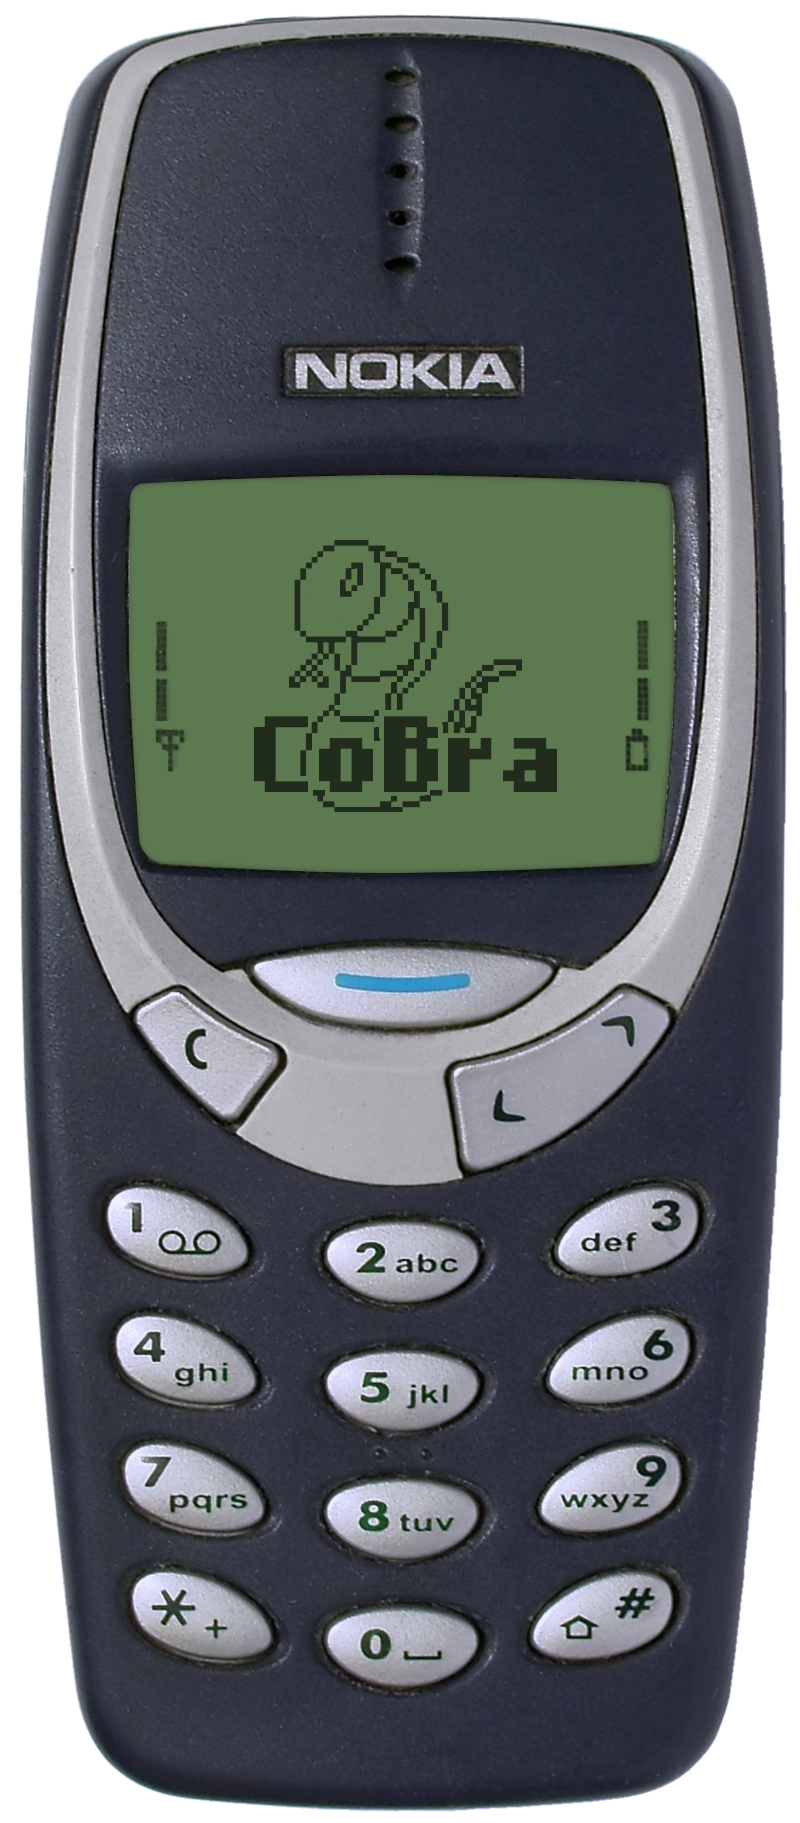
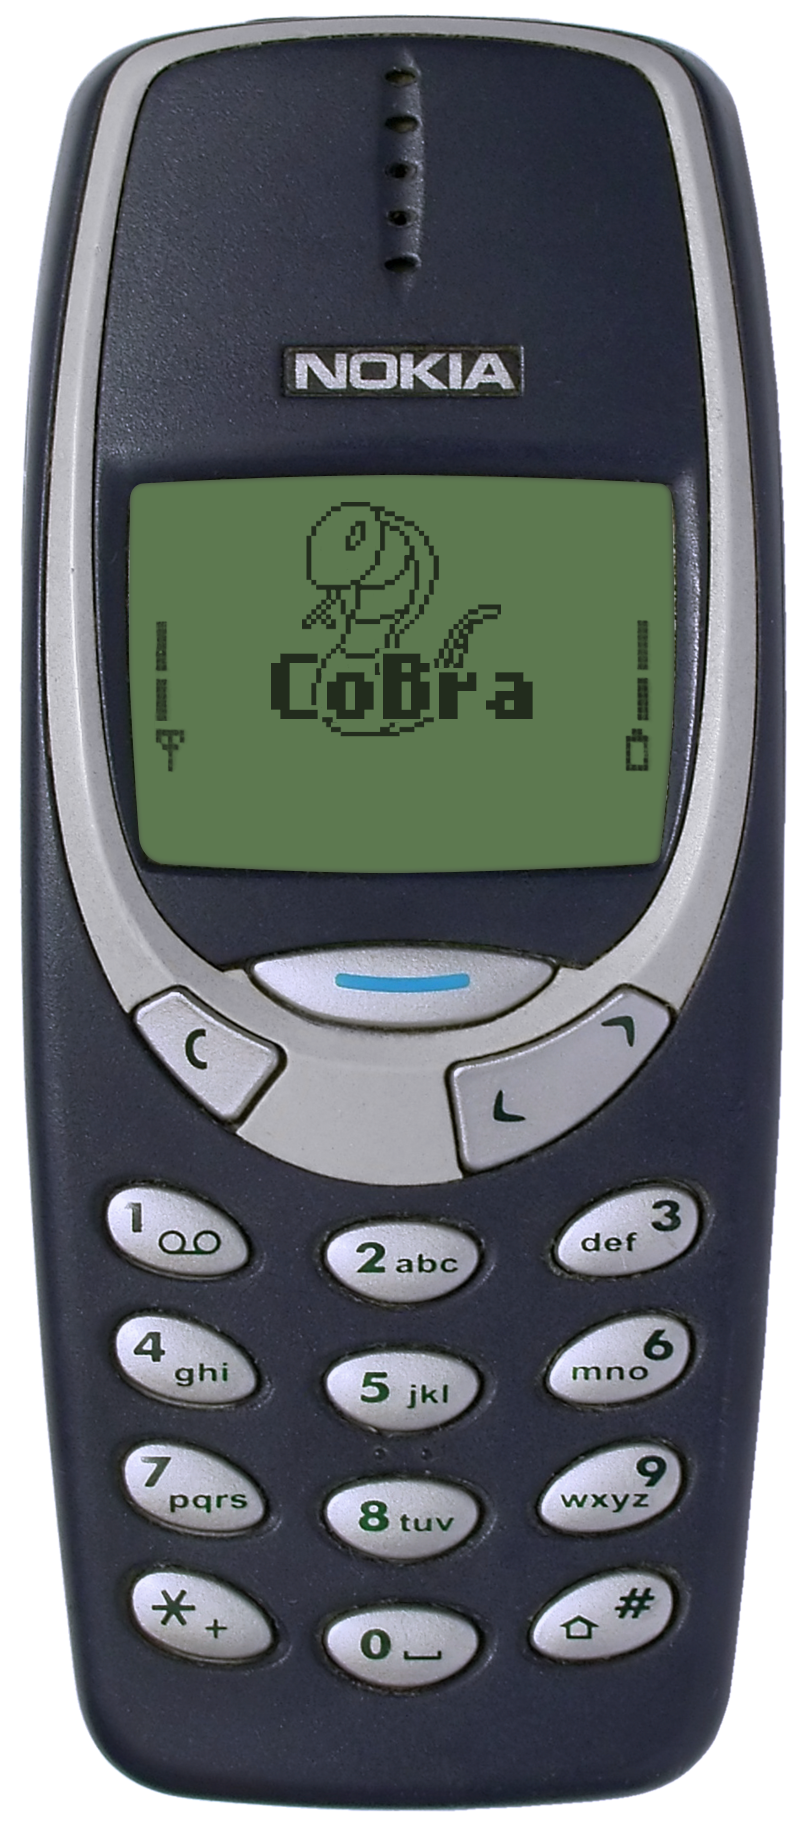
add "Hit Space"

Changed region(s): [[0.3125, 0.2765, 0.7188, 0.4608]]

diff --git a/style.css b/style.css
@@ -15,6 +15,7 @@ body {
   margin: auto;
   text-align: center;
   z-index: 2;
+  position: relative;
 }
 
 .canvas-container {
@@ -58,4 +59,28 @@ body {
   right: -75px;
   top: 30px;
   position: absolute;
+}
+
+.hit-space {
+  color: #273122;
+  position: absolute;
+  font-size: 83px;
+  left: 54%;
+  top: 545px;
+  transform: translateX(-50%);
+}
+
+.blink {
+  animation: blink-animation .8s steps(5, start) infinite;
+  -webkit-animation: blink-animation .8s steps(5, start) infinite;
+}
+@keyframes blink-animation {
+  to {
+    visibility: hidden;
+  }
+}
+@-webkit-keyframes blink-animation {
+  to {
+    visibility: hidden;
+  }
 }

diff --git a/script.js b/script.js
@@ -4,6 +4,10 @@ window.addEventListener('DOMContentLoaded', (event) => {
     document.querySelector(".nokia").classList.add("nokia-fullscreen")
   }, 1000)
 
+  setTimeout(() => {
+    document.querySelector(".hit-space").classList.remove("d-none")
+  }, 2000)
+
   var canvas = document.getElementById('canvas');
 
   var ctx = canvas.getContext('2d'),

diff --git a/index.html b/index.html
@@ -15,6 +15,8 @@
         <div class="score" id="score">0</div>
         <canvas id="canvas" height="460px" width="460px"></canvas>
     </div>
+
+    <div class="hit-space d-none blink">Hit Space</div>
 </div>
 </body>
 </html>
